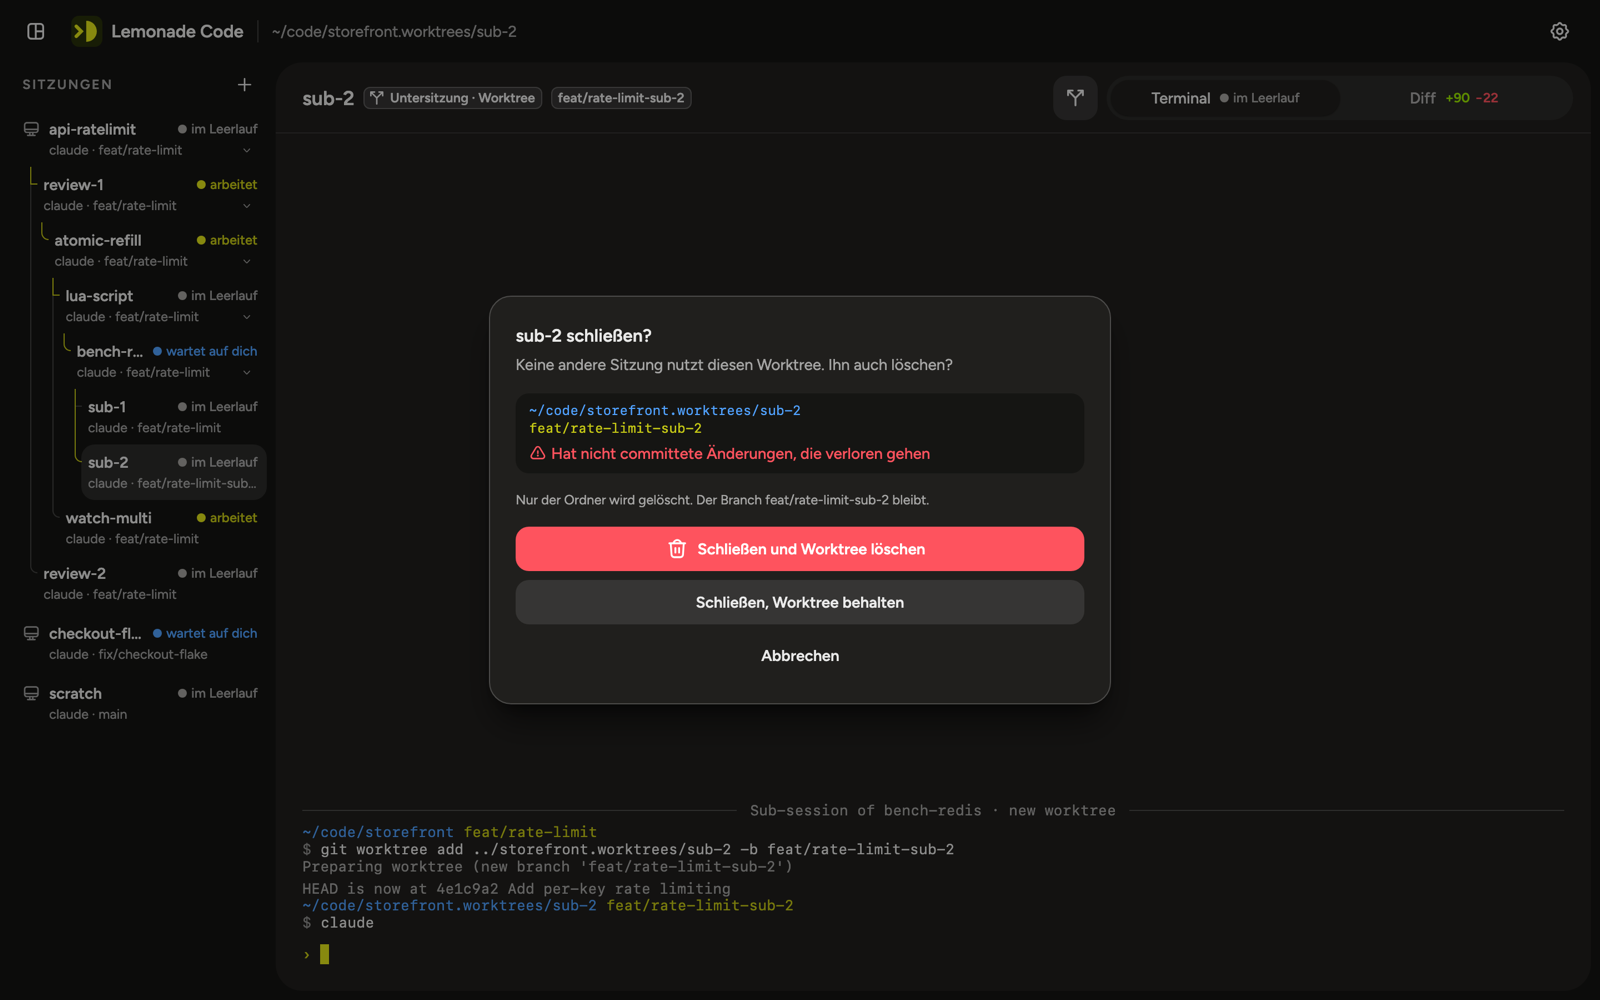
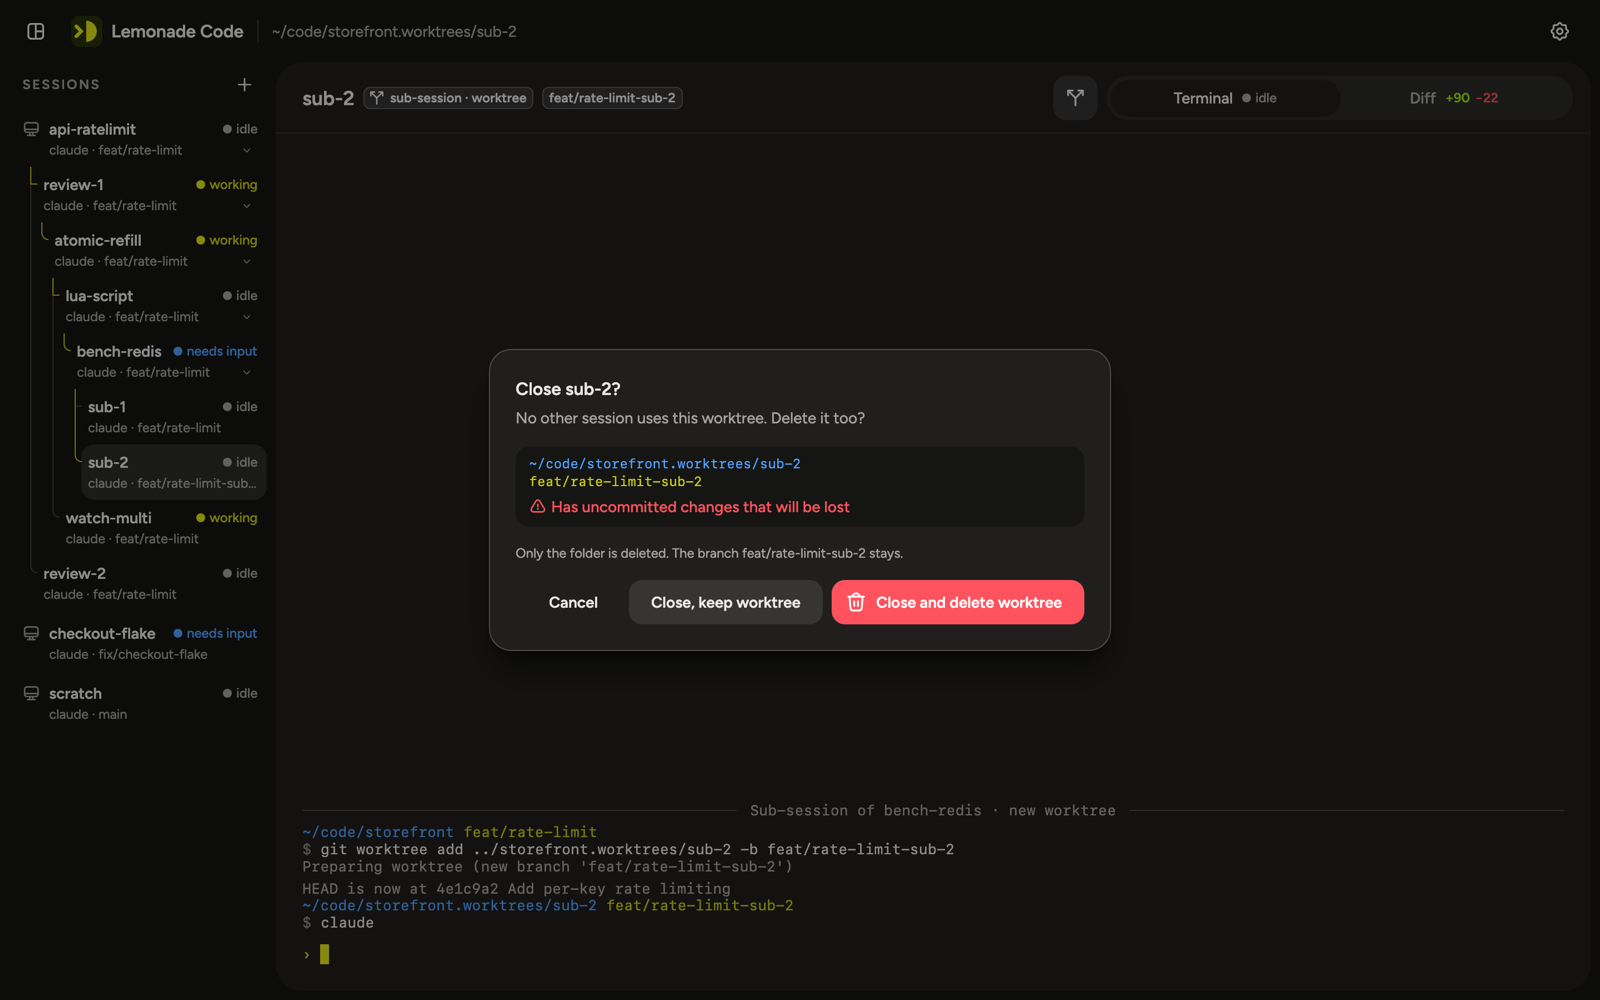
Bring the README up to date with the latest features
The README hadn't caught up with the work since the license. It now
mentions the dings when an agent finishes or needs you, the diff showing
only your branch's work even when local main is behind origin/main, the
changed-files list, and the offer to delete a worktree when its session
closes, shown beside the new-worktree panel. The one-line phone bullet
grows into its own section with the Devices screenshot: Android screens
as video up to 60 frames a second, using the phone from the app, picking
which apps the logs come from, sending errors or a screenshot to the
agent, QR pairing and the panel's own window. The title bar following
the theme and copying a file's path get a line each.

The close-worktree screenshot was rendered in German; it's rendered in
English now. How it works said the update check was the only thing that
goes over the network, but Markdown previews download web pictures too,
and it named the update buttons Update and restart instead of Update now
and Restart now.

Claude-Session: https://claude.ai/code/session_01BE915oRtM7d5NZtiftNvCs

diff --git a/README.md b/README.md
@@ -66,12 +66,17 @@ tidy.
 Start Claude Code, Codex, or any program you like. The sidebar shows what every session is up to,
 **working**, **needs input** or **idle**, so you always know which one wants you.
 
+Looking at something else? You'll hear it: a soft ding when an agent is done, and a double ding
+when one needs you, whichever session it's in.
+
 <img src="docs/images/terminals.png" width="100%" alt="The sessions sidebar with four sessions and their status, next to a terminal where Claude Code finished adding rate limiting">
 
 ### See exactly what changed
 
 Switch to the **Diff** tab to see every change in that folder against `main`, or any branch you
-pick. New and uncommitted files are included, code is coloured, and the full file is one click away.
+pick. Only your branch's own work shows, even when your local `main` is behind `origin/main`.
+New and uncommitted files are included, code is coloured, a list of changed files keeps your place,
+and the full file is one click away.
 
 <img src="docs/images/review-diff.png" width="100%" alt="The diff of src/server/app.ts showing the full file, with a comment under line 9 and the changed files listed beside it">
 
@@ -104,7 +109,20 @@ Start a sub-session in the same folder, or in a new **git worktree** on its own 
 work never collides. Sessions nest as deep as you need, and a lime rail traces each one back to
 where it started.
 
-<img src="docs/images/new-worktree.png" width="100%" alt="The New sub-session panel with New worktree picked, showing the folder and branch it will create">
+Done with it? Close the session and Lemonade Code offers to tidy up the worktree too, even one the
+agent made for itself. The branch stays, and you're warned first if anything uncommitted would be
+lost.
+
+<table>
+<tr>
+<td width="50%"><img src="docs/images/new-worktree.png" alt="The New sub-session panel with New worktree picked, showing the folder and branch it will create"></td>
+<td width="50%"><img src="docs/images/close-worktree.png" alt="Closing sub-2 asks whether to delete its worktree too, warning that it has uncommitted changes"></td>
+</tr>
+<tr>
+<td align="center"><sub><b>Branch out</b>, and see the folder and branch before they exist</sub></td>
+<td align="center"><sub><b>Clean up</b>, and the worktree goes when its session does</sub></td>
+</tr>
+</table>
 
 ### Previews for more than code
 
@@ -131,9 +149,22 @@ model to turn it around.
 </tr>
 </table>
 
+### Your phone, right beside the code
+
+Building an app? Turn on the **Mobile** plugin and your Android or iOS device sits next to the
+session, screen and logs together. Android screens stream as smooth video, up to 60 frames a
+second, and you can tap, swipe and type on them from your desk.
+
+Pick which apps the logs come from, filter down to the errors, and press **Send errors** to hand
+them to the agent, or snap a screenshot it can look at. Pair a phone over Wi-Fi with a QR code, and
+pop the panel out onto another display when you want the room.
+
+<img src="docs/images/devices.png" width="100%" alt="The Devices panel three ways: the list of connected phones, a Pixel 8's screen beside its logs, and an iPhone's logs, each with two errors ready to send to claude">
+
 ### Dark or light
 
-Pick one, or follow your system. Both themes come straight from the Lemonade design system.
+Pick one, or follow your system. Both themes come straight from the Lemonade design system, and on
+macOS and Windows even the window's title bar follows along.
 
 <img src="docs/images/theme-split.png" width="100%" alt="The same review screen, half in the dark theme and half in the light theme">
 
@@ -158,8 +189,8 @@ And a few more:
   last output on screen. Claude Code conversations pick up where they left off.
 - 🔗 **Clickable links.** Ctrl-click (or ⌘-click) any web address in the terminal to open it.
 - ⌨ **Every keyboard works.** Accents, dead keys and input methods type just like anywhere else.
-- 📱 **Phones beside the code.** Turn on the Mobile plugin to see an Android or iOS screen next to
-  its logs, use the phone from the app, and hand its errors or a screenshot to the agent.
+- 📋 **Paths to go.** Select a file's path right in the diff, or copy it with one click.
+- 🔕 **Quiet when you want it.** Turn the dings off in Settings, or press Play to hear them first.
 - 🌍 **Speaks your language.** English, German, Spanish, French, Portuguese and Slovak. It follows
   your system, or pick one in Settings.
 

diff --git a/docs/HOW-IT-WORKS.md b/docs/HOW-IT-WORKS.md
@@ -183,8 +183,9 @@ Installed from a release file (DMG, MSI, .deb or .tar.gz), the app looks for a n
 seconds after launch and every 6 hours. A release counts when it's published, has a higher version
 and carries both the file for your kind of install and a `SHA256SUMS` file.
 
-When you press **Update and restart**, the app downloads the file, checks it against `SHA256SUMS`,
-quits, and a small helper swaps the new version in and starts it again, sessions restored:
+When you press **Update now**, the app downloads the file and checks it against `SHA256SUMS`. When
+you press **Restart now**, it quits, and a small helper swaps the new version in and starts it again,
+sessions restored:
 
 | Installed from | The helper |
 |---|---|
@@ -197,7 +198,13 @@ Homebrew and Snap Store installs never check; those tools update the app themsel
 
 ## What goes over the network
 
-Only the update check: installs from a release file ask GitHub's public API which releases exist,
-and download one when you press **Update**. Lemonade Code itself contacts nothing else, and your
-code, sessions and comments stay on your computer. (Programs you run in its terminals, like Claude
-Code, connect wherever they normally do.)
+Very little, and your code, sessions and comments stay on your computer. Lemonade Code itself only
+connects for two things:
+
+- **The update check.** Installs from a release file ask GitHub's public API which releases exist,
+  and download one when you press **Update now**.
+- **Web pictures in Markdown previews.** When a Markdown file's preview shows a picture from the
+  web, like a badge, it's downloaded then. Pictures from the repository are read locally.
+
+Programs you run in its terminals, like Claude Code, connect wherever they normally do, and so do
+`adb` and libimobiledevice when the Mobile plugin talks to a phone over Wi-Fi.
